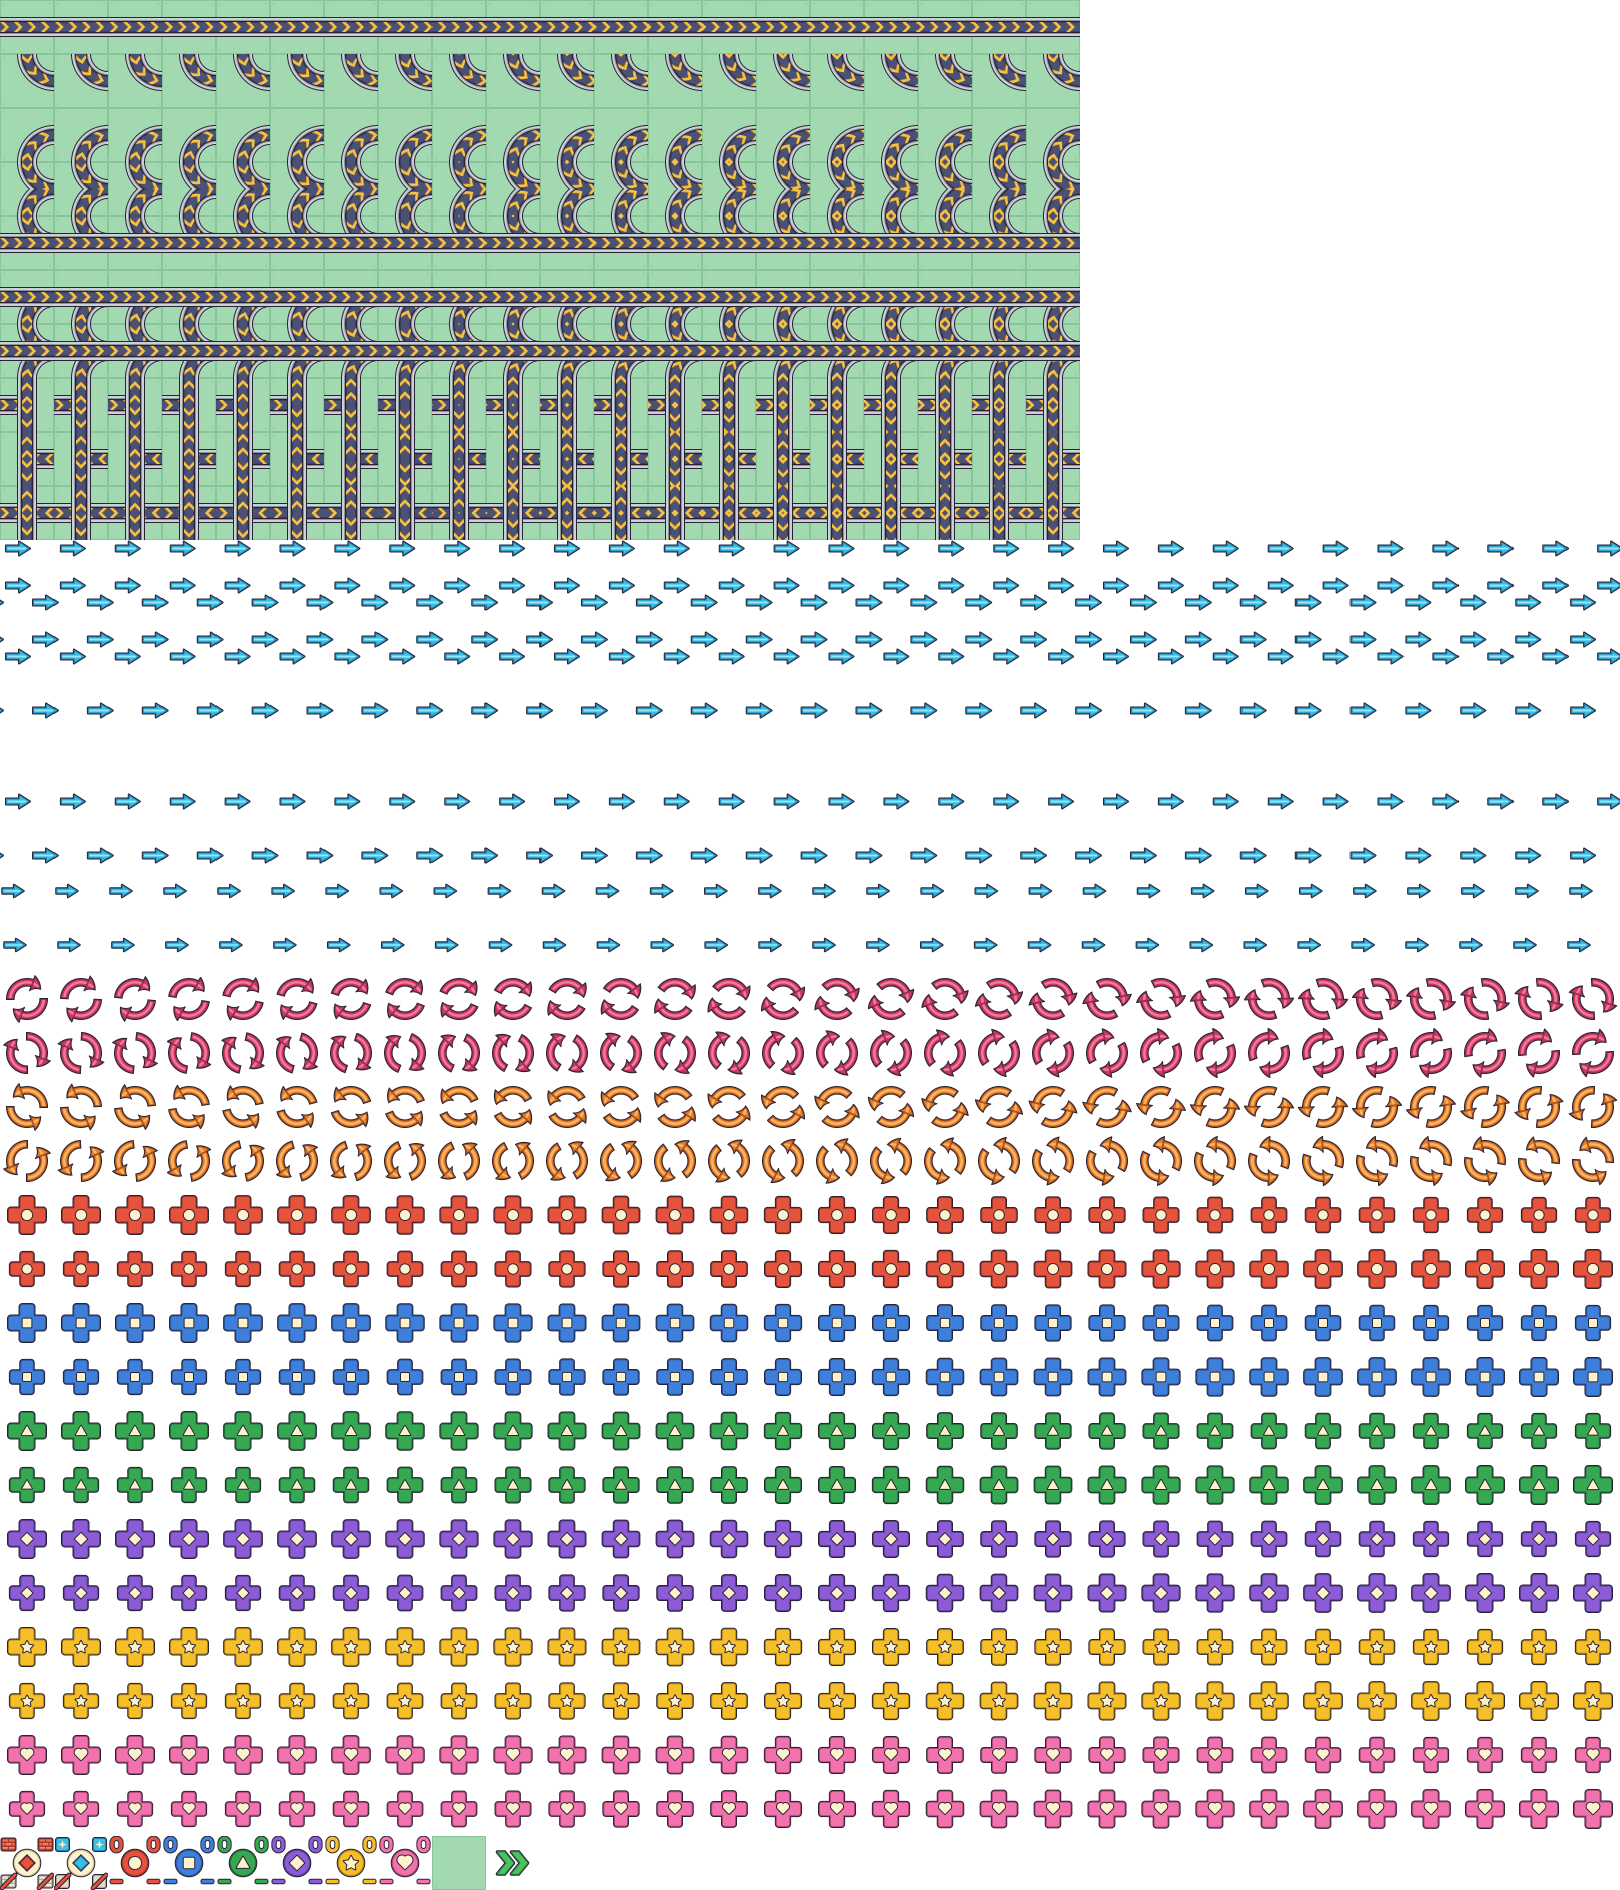
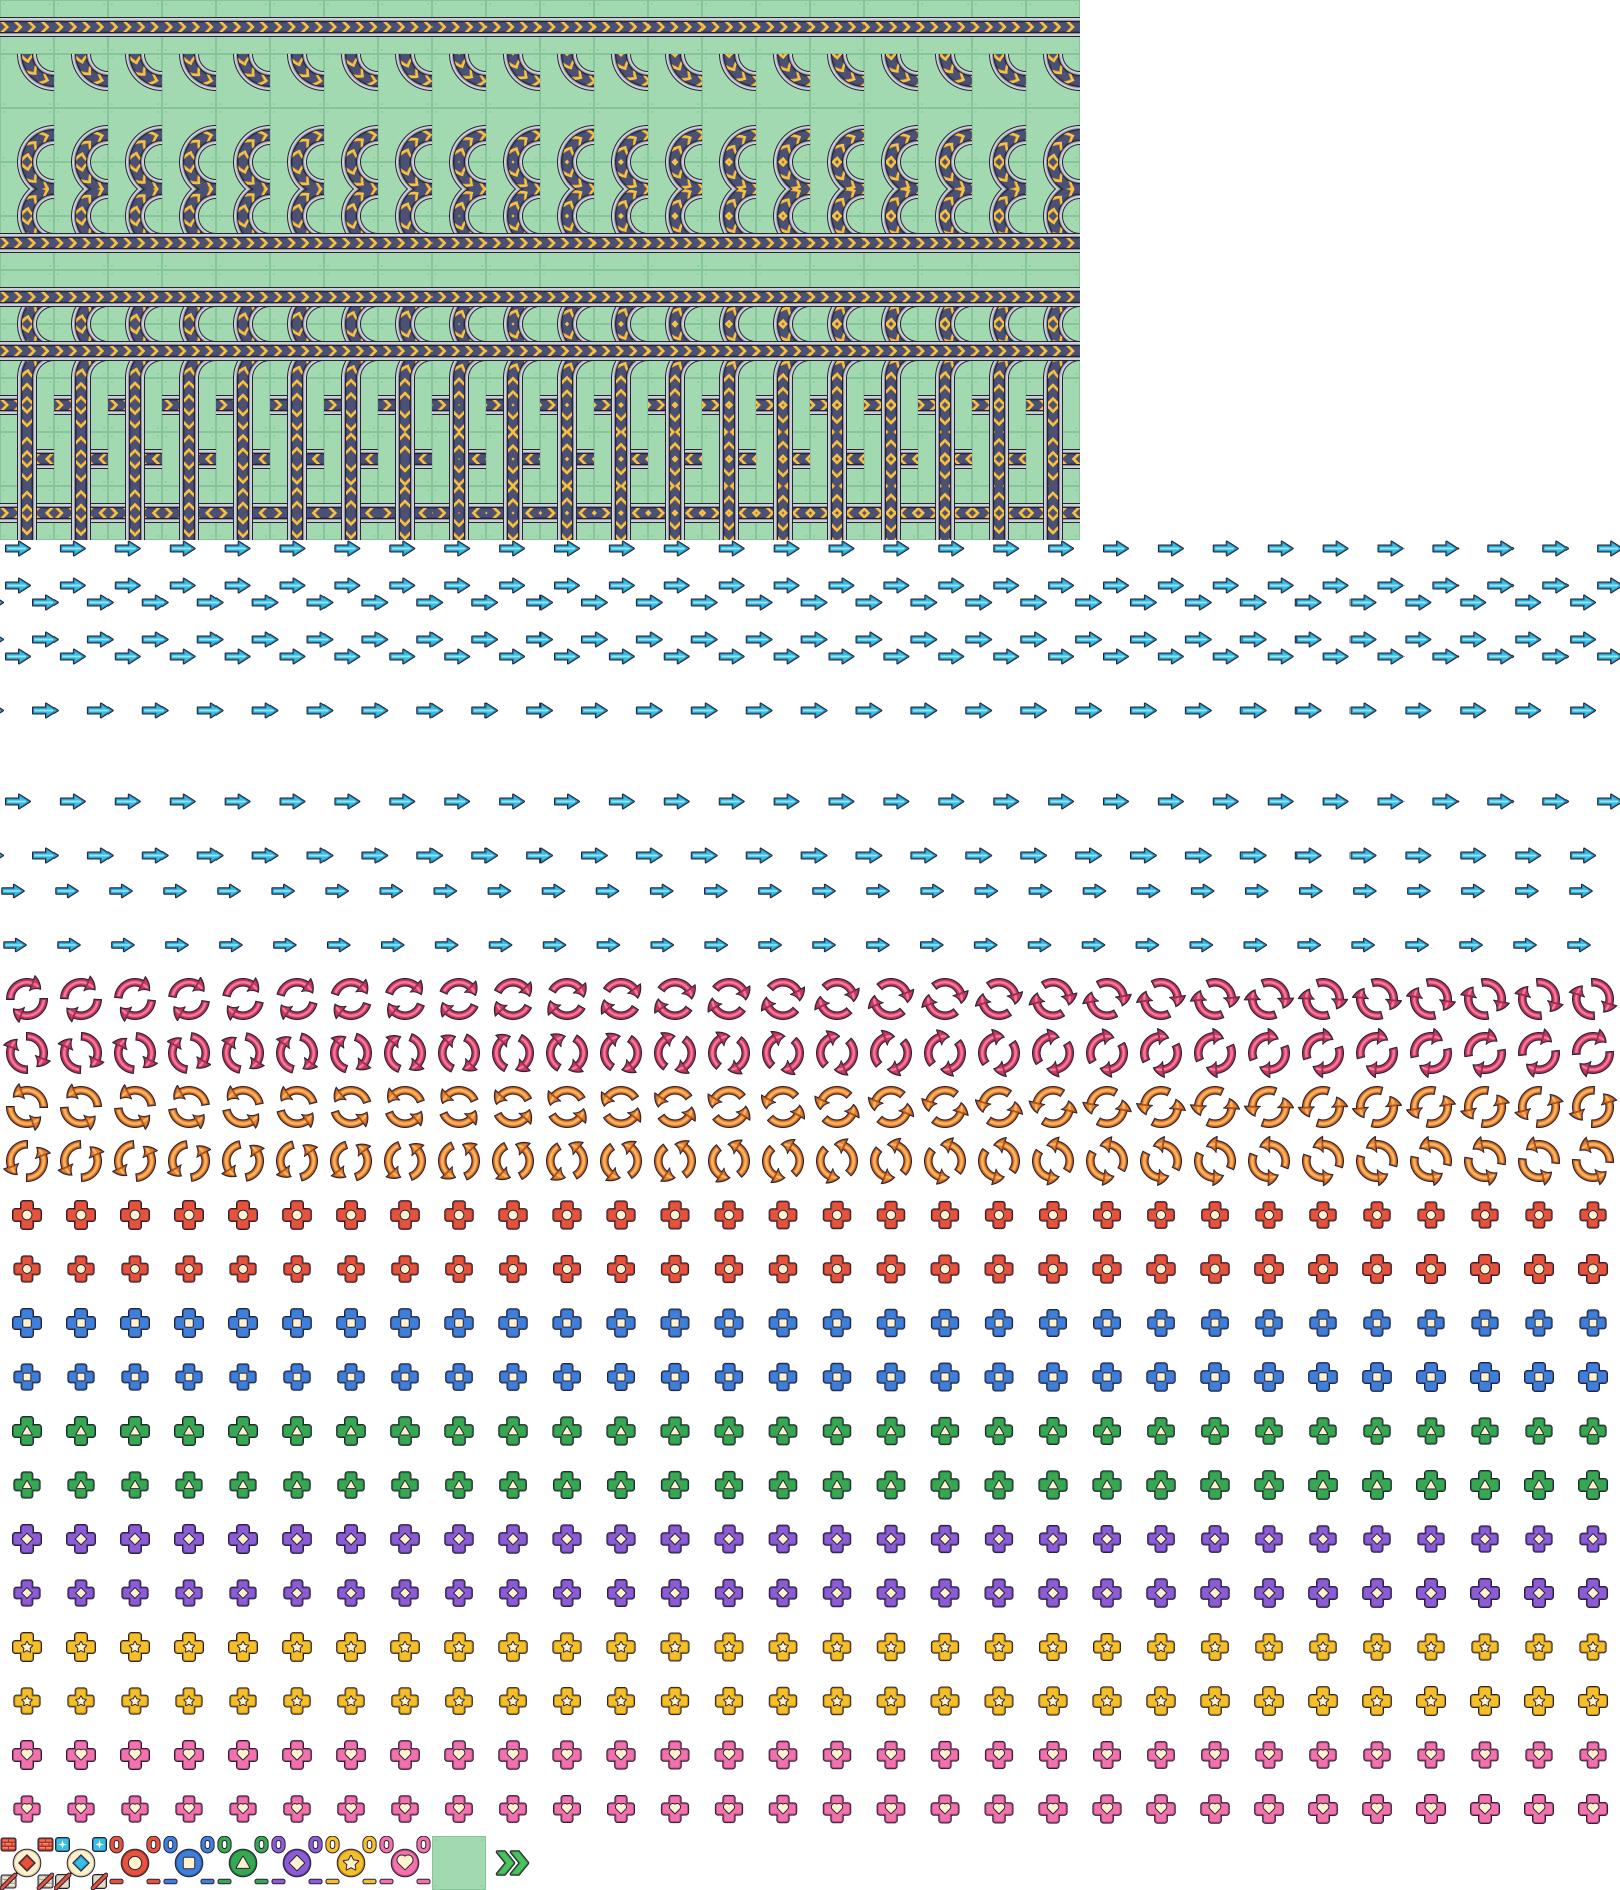
Smaller counter-increment plus so belt bends and merges show through (tg-y68)

Changed region(s): [[0.0, 0.6243, 1.0, 0.9677]]

diff --git a/index.html b/index.html
@@ -11,77 +11,77 @@
 // Build version, appended as ?v= to every script, stylesheet and asset URL so
 // a returning browser never mixes cached old files with new ones. Set (here and
 // on every tag below) by `node tools/bump-version.mjs`; see README.md.
-window.TURING_VERSION = "20261108-200110-af53880";
+window.TURING_VERSION = "20261108-204628-ee250c1";
 window.versionedUrl = function (url) {
   if (!url || /^(data|blob):/.test(url) || /[?&]v=/.test(url)) return url;
   return url + (url.indexOf("?") < 0 ? "?" : "&") + "v=" + encodeURIComponent(window.TURING_VERSION);
 };
 </script>
 <!-- libs -->
-<link rel="stylesheet" href="css/style.css?v=20261108-200110-af53880">
-<link rel="stylesheet" href="css/toybox.css?v=20261108-200110-af53880">
-<script src='lib/quintus.js?v=20261108-200110-af53880'></script>
-<script src='lib/quintus_sprites.js?v=20261108-200110-af53880'></script>
-<script src='lib/quintus_scenes.js?v=20261108-200110-af53880'></script>
-<script src='lib/quintus_anim.js?v=20261108-200110-af53880'></script>
-<script src='lib/quintus_2d.js?v=20261108-200110-af53880'></script>
-<script src='lib/quintus_touch.js?v=20261108-200110-af53880'></script>
-<script src='lib/quintus_ui.js?v=20261108-200110-af53880'></script>
-<script src='lib/quintus_input.js?v=20261108-200110-af53880'></script>
+<link rel="stylesheet" href="css/style.css?v=20261108-204628-ee250c1">
+<link rel="stylesheet" href="css/toybox.css?v=20261108-204628-ee250c1">
+<script src='lib/quintus.js?v=20261108-204628-ee250c1'></script>
+<script src='lib/quintus_sprites.js?v=20261108-204628-ee250c1'></script>
+<script src='lib/quintus_scenes.js?v=20261108-204628-ee250c1'></script>
+<script src='lib/quintus_anim.js?v=20261108-204628-ee250c1'></script>
+<script src='lib/quintus_2d.js?v=20261108-204628-ee250c1'></script>
+<script src='lib/quintus_touch.js?v=20261108-204628-ee250c1'></script>
+<script src='lib/quintus_ui.js?v=20261108-204628-ee250c1'></script>
+<script src='lib/quintus_input.js?v=20261108-204628-ee250c1'></script>
 
-<script type="text/javascript" src="jquery-1.7.1.min.js?v=20261108-200110-af53880"></script>
+<script type="text/javascript" src="jquery-1.7.1.min.js?v=20261108-204628-ee250c1"></script>
 
 
-<script src="program.js?v=20261108-200110-af53880"></script>
-<script src="oaevil.js?v=20261108-200110-af53880"></script>
-<script src="js/audio.js?v=20261108-200110-af53880"></script>
-<script src="js/music.js?v=20261108-200110-af53880"></script>
-<script src="js/ui/kit.js?v=20261108-200110-af53880"></script>
-<script src="js/scenes/registry.js?v=20261108-200110-af53880"></script>
-<script src="queue.js?v=20261108-200110-af53880"></script>
-<script src="Dequeue.js?v=20261108-200110-af53880"></script>
-<script src="Storage.js?v=20261108-200110-af53880"></script>
+<script src="program.js?v=20261108-204628-ee250c1"></script>
+<script src="oaevil.js?v=20261108-204628-ee250c1"></script>
+<script src="js/audio.js?v=20261108-204628-ee250c1"></script>
+<script src="js/music.js?v=20261108-204628-ee250c1"></script>
+<script src="js/ui/kit.js?v=20261108-204628-ee250c1"></script>
+<script src="js/scenes/registry.js?v=20261108-204628-ee250c1"></script>
+<script src="queue.js?v=20261108-204628-ee250c1"></script>
+<script src="Dequeue.js?v=20261108-204628-ee250c1"></script>
+<script src="Storage.js?v=20261108-204628-ee250c1"></script>
 
-<script src="EndLevelRobots.js?v=20261108-200110-af53880"></script>
-<script src="config.js?v=20261108-200110-af53880"></script>
-<script src="TuringTable.js?v=20261108-200110-af53880"></script>
-<script src="RobotTable.js?v=20261108-200110-af53880"></script>
-<script src="Operators.js?v=20261108-200110-af53880"></script>
-<script src="selector.js?v=20261108-200110-af53880"></script>
-<script src="editorselector.js?v=20261108-200110-af53880"></script>
-<script src="obstacles.js?v=20261108-200110-af53880"></script>
-<script src="animator.js?v=20261108-200110-af53880"></script>
-<script src="controls.js?v=20261108-200110-af53880"></script>
-<script src="parser.js?v=20261108-200110-af53880"></script>
-<script src="levels.js?v=20261108-200110-af53880"></script>
-<script src="levelsdata.js?v=20261108-200110-af53880"></script>
-<script src="levelsdata3.js?v=20261108-200110-af53880"></script>
-<script src="levelsdata2.js?v=20261108-200110-af53880"></script>
-<script src="levelsdata4.js?v=20261108-200110-af53880"></script>
-<script src="utilitySprites.js?v=20261108-200110-af53880"></script>
+<script src="EndLevelRobots.js?v=20261108-204628-ee250c1"></script>
+<script src="config.js?v=20261108-204628-ee250c1"></script>
+<script src="TuringTable.js?v=20261108-204628-ee250c1"></script>
+<script src="RobotTable.js?v=20261108-204628-ee250c1"></script>
+<script src="Operators.js?v=20261108-204628-ee250c1"></script>
+<script src="selector.js?v=20261108-204628-ee250c1"></script>
+<script src="editorselector.js?v=20261108-204628-ee250c1"></script>
+<script src="obstacles.js?v=20261108-204628-ee250c1"></script>
+<script src="animator.js?v=20261108-204628-ee250c1"></script>
+<script src="controls.js?v=20261108-204628-ee250c1"></script>
+<script src="parser.js?v=20261108-204628-ee250c1"></script>
+<script src="levels.js?v=20261108-204628-ee250c1"></script>
+<script src="levelsdata.js?v=20261108-204628-ee250c1"></script>
+<script src="levelsdata3.js?v=20261108-204628-ee250c1"></script>
+<script src="levelsdata2.js?v=20261108-204628-ee250c1"></script>
+<script src="levelsdata4.js?v=20261108-204628-ee250c1"></script>
+<script src="utilitySprites.js?v=20261108-204628-ee250c1"></script>
 
 <!-- screens: one file per Quintus scene (js/scenes/), UI kit in js/ui/ -->
-<script src="js/ui/tiles.js?v=20261108-200110-af53880"></script>
-<script src="js/ui/tile-input.js?v=20261108-200110-af53880"></script>
-<script src="js/ui/tile-explainers.js?v=20261108-200110-af53880"></script>
-<script src="js/scenes/level.js?v=20261108-200110-af53880"></script>
-<script src="js/scenes/help.js?v=20261108-200110-af53880"></script>
-<script src="js/scenes/level-selector.js?v=20261108-200110-af53880"></script>
-<script src="js/scenes/end-level.js?v=20261108-200110-af53880"></script>
-<script src="js/scenes/intro.js?v=20261108-200110-af53880"></script>
-<script src="js/scenes/about.js?v=20261108-200110-af53880"></script>
+<script src="js/ui/tiles.js?v=20261108-204628-ee250c1"></script>
+<script src="js/ui/tile-input.js?v=20261108-204628-ee250c1"></script>
+<script src="js/ui/tile-explainers.js?v=20261108-204628-ee250c1"></script>
+<script src="js/scenes/level.js?v=20261108-204628-ee250c1"></script>
+<script src="js/scenes/help.js?v=20261108-204628-ee250c1"></script>
+<script src="js/scenes/level-selector.js?v=20261108-204628-ee250c1"></script>
+<script src="js/scenes/end-level.js?v=20261108-204628-ee250c1"></script>
+<script src="js/scenes/intro.js?v=20261108-204628-ee250c1"></script>
+<script src="js/scenes/about.js?v=20261108-204628-ee250c1"></script>
 
 
-<script src="script.js?v=20261108-200110-af53880"></script>
+<script src="script.js?v=20261108-204628-ee250c1"></script>
 
 
 <!-- icons: built by tools/art/favicon.mjs from the player robot master -->
-<link rel="icon" type="image/png" sizes="16x16" href="images/icons/favicon-16.png?v=20261108-200110-af53880">
-<link rel="icon" type="image/png" sizes="32x32" href="images/icons/favicon-32.png?v=20261108-200110-af53880">
-<link rel="icon" type="image/png" sizes="48x48" href="images/icons/favicon-48.png?v=20261108-200110-af53880">
-<link rel="icon" type="image/png" sizes="192x192" href="images/icons/icon-192.png?v=20261108-200110-af53880">
-<link rel="icon" type="image/png" sizes="512x512" href="images/icons/icon-512.png?v=20261108-200110-af53880">
-<link rel="apple-touch-icon" sizes="180x180" href="images/icons/apple-touch-icon.png?v=20261108-200110-af53880">
+<link rel="icon" type="image/png" sizes="16x16" href="images/icons/favicon-16.png?v=20261108-204628-ee250c1">
+<link rel="icon" type="image/png" sizes="32x32" href="images/icons/favicon-32.png?v=20261108-204628-ee250c1">
+<link rel="icon" type="image/png" sizes="48x48" href="images/icons/favicon-48.png?v=20261108-204628-ee250c1">
+<link rel="icon" type="image/png" sizes="192x192" href="images/icons/icon-192.png?v=20261108-204628-ee250c1">
+<link rel="icon" type="image/png" sizes="512x512" href="images/icons/icon-512.png?v=20261108-204628-ee250c1">
+<link rel="apple-touch-icon" sizes="180x180" href="images/icons/apple-touch-icon.png?v=20261108-204628-ee250c1">
 
 
 

diff --git a/docs/art/classes/program-tiles.md b/docs/art/classes/program-tiles.md
@@ -47,7 +47,7 @@ Symbols (transparent ground):
 | `stepForwardSymbolSouth` / `…North` | 60 | `stepForwardMations` | one lane only: a left (right) arc takes the other lane (joins L, BL / R, BR) |
 | `stepForwardSymbolInline` | 60 | `stepForwardMations` | both lanes taken (LR, BLR): one arrow on the centre line in the west half, nudging forward |
 | `cwrotatorSymbol`, `ccwrotatorSymbol` | 60 | `cwRotatorMations`, `ccwRotatorMations` | two-arc arrow turning, magenta / orange |
-| `incrementer<Colour>Symbol` | 60 | `incrementerMations<Colour>` | pulsing plus in the counter colour, cream glyph |
+| `incrementer<Colour>Symbol` | 60 | `incrementerMations<Colour>` | pulsing plus in the counter colour, cream glyph; sized so joins show between its arms |
 | `detectorSymbol` | 1 | `detectorMations` | hub + brick wall icons north, struck-out walls south |
 | `magicDetectorSymbol` | 1 | `magicMation` | hub + sparkling blue tile icons north, struck-out tiles south |
 | `decrementer<Colour>Symbol` | 1 | `decrementerMations<Colour>` | glyph hub, `0` rings north, `−` bars south |
@@ -108,6 +108,18 @@ shows counters (the cipher locks) should use the same pairs.
   with both lanes taken a single arrow rides the centre line in the west half,
   stopping short of a T's arcs. `--check` proves the step never touches a
   side arc and that no symbol covers a belt opening its joins use.
+- **Incrementer plus** (tg-y68): arm half-length 14, arm half-width 6,
+  corner radius 2.5, glyph radius 4.6, plus the 1 unit outline (`PLUS` in
+  the generator). It was 19 / 7.5 / 3 / 5.4 in v2: that plus spanned 40 of
+  54 units and hid most of a corner or merge belt, so in the L, R, T and
+  merge joins only the tile edges showed belt. Now it spans 30 units, about
+  the decrementer hub's 28.6, so the two read as a pair (same colour, glyph
+  and footprint); a corner's chevrons run in the gap between two arms and a
+  T's arcs show all the way to the centre line. Arms and glyph shrink
+  together: half-width 6 is the slimmest that keeps the glyph (about 9 px
+  at 54 px, 6 CSS px on a 375 px phone) clear of the arm's dark rim; 5.5
+  with glyph 4.3 was tried and the square, triangle and heart touched the
+  rim. The pulse is unchanged (scale 1 → 0.9 → 1).
 - **Branches** (detector, magic detector, decrementers): a half belt in from
   the west, a full belt north–south with chevrons running outwards, and a hub
   disc (radius 13.3 + outline) hiding the crossing. Icons sit in the four
@@ -159,7 +171,7 @@ All of this is display only; the rules, step counts and scores are unchanged.
 ## Readability
 
 Check at 1× and 4× on the contact sheet, and the board mock on light and dark.
-Icons are at least 12 px; glyphs about 10 px.
+Icons are at least 12 px; glyphs about 9 px on the incrementer plus and 12 px on the decrementer hub (at 54 px).
 
 ## Regenerate
 
